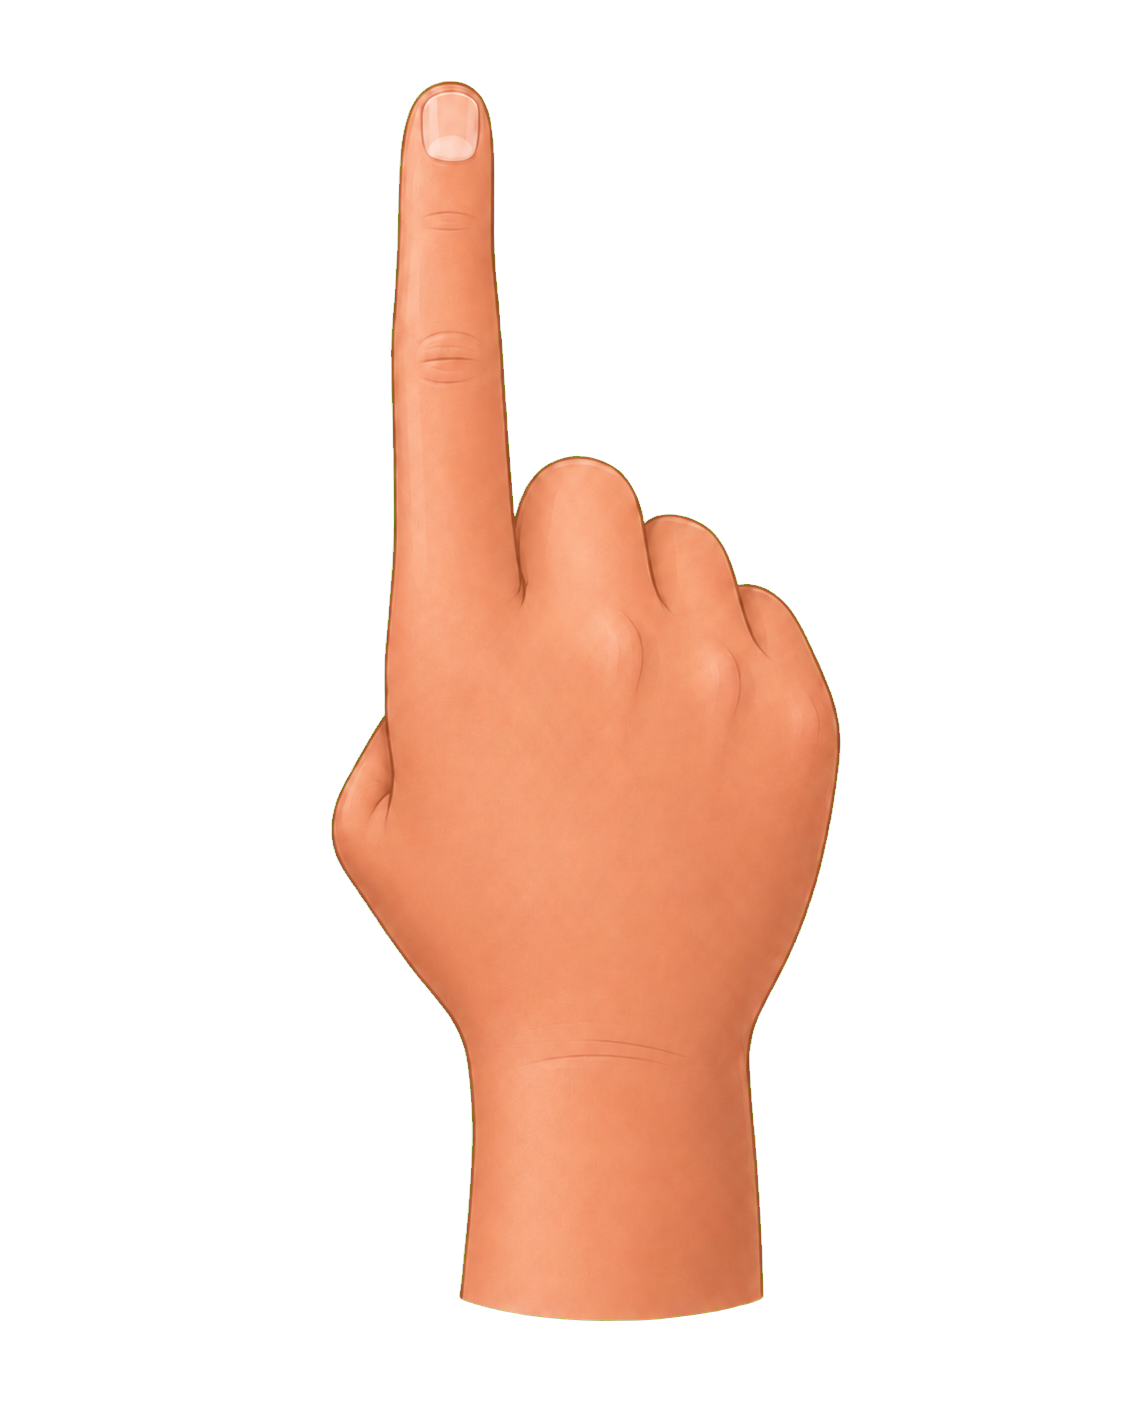
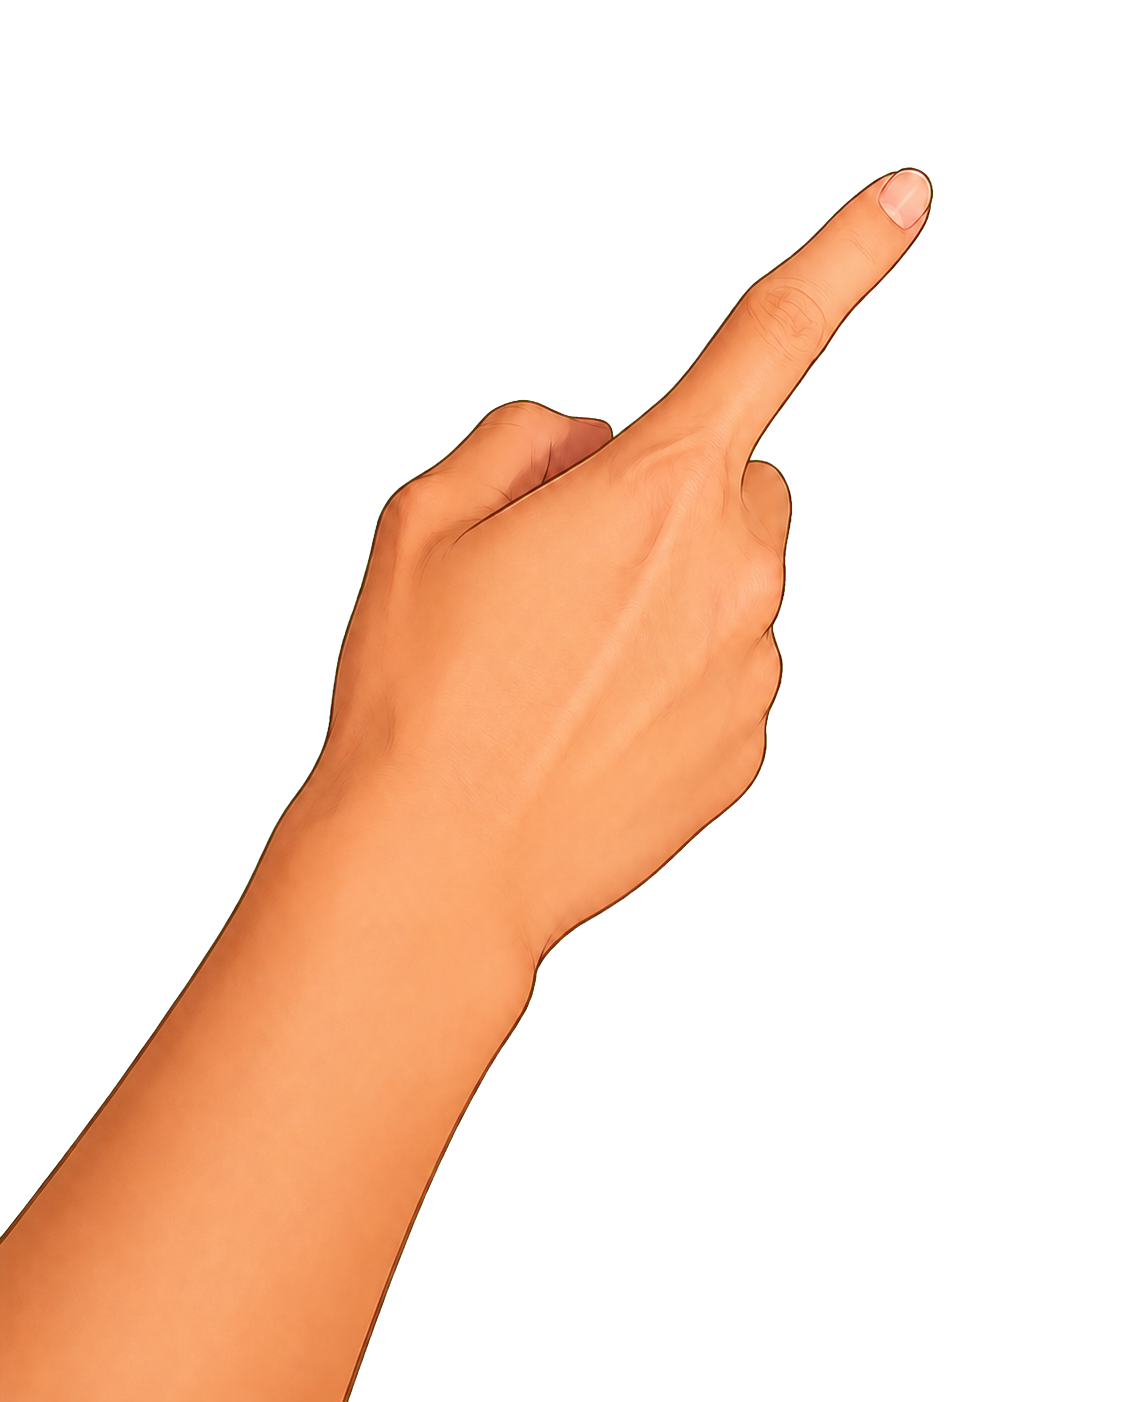
feat: replace interaction finger artwork

Changed region(s): [[0.0, 0.0613, 0.8422, 1.0], [0.5927, 0.5214, 0.6239, 0.5521], [0.4679, 0.5214, 0.4991, 0.5521]]

diff --git a/src/components/MetaInteractionScene.tsx b/src/components/MetaInteractionScene.tsx
@@ -733,7 +733,9 @@ export const MetaInteractionScene: React.FC<MetaInteractionSceneProps> = ({ acti
                     src="/assets/meta-tapping-finger.png"
                     alt=""
                     draggable={false}
-                    className="absolute left-0 top-0 h-[clamp(294px,43vh,420px)] w-auto max-w-none -translate-x-[40%] -translate-y-[6%] select-none drop-shadow-[0_14px_12px_rgba(0,0,0,0.3)]"
+                    className="absolute left-0 top-0 h-[clamp(294px,43vh,420px)] w-auto max-w-none select-none drop-shadow-[0_14px_12px_rgba(0,0,0,0.3)]"
+                    style={{ transformOrigin: '83% 13%', translate: '-83% -13%', rotate: '-90deg' }}
+                    data-finger-orientation="upper-left"
                   />
                 </motion.div>
               )}
@@ -782,10 +784,12 @@ export const MetaInteractionScene: React.FC<MetaInteractionSceneProps> = ({ acti
                 src="/assets/meta-tapping-finger.png"
                 alt=""
                 draggable={false}
-                className="absolute left-0 top-0 h-[clamp(294px,43vh,420px)] w-auto max-w-none origin-[40%_6%] -translate-x-[40%] -translate-y-[6%] select-none drop-shadow-[0_14px_12px_rgba(0,0,0,0.3)]"
+                className="absolute left-0 top-0 h-[clamp(294px,43vh,420px)] w-auto max-w-none select-none drop-shadow-[0_14px_12px_rgba(0,0,0,0.3)]"
+                style={{ transformOrigin: '83% 13%', translate: '-83% -13%', rotate: '-90deg' }}
                 initial={false}
                 animate={{ y: pressed ? 5 : 0, scale: pressed ? 0.98 : 1 }}
                 transition={reducedMotion ? { duration: 0 } : HAND_PRESS_SPRING}
+                data-finger-orientation="upper-left"
                 aria-hidden="true"
                 id="meta-tapping-finger-asset"
               />

diff --git a/tests/metaInteraction.test.ts b/tests/metaInteraction.test.ts
@@ -98,9 +98,11 @@ test('meta camera uses layered anatomical hands instead of rounded placeholder b
   assert.match(sceneSource, /className="[^"]*z-\[8\][^"]*"[\s\S]{0,180}id="meta-tapping-hand-back"/);
   assert.match(sceneSource, /className="[^"]*z-\[60\][^"]*"[\s\S]{0,180}id="meta-pointer-hand"/);
   assert.equal((sceneSource.match(/src="\/assets\/meta-tapping-finger\.png"/g) ?? []).length, 2);
+  assert.equal((sceneSource.match(/data-finger-orientation="upper-left"/g) ?? []).length, 2);
+  assert.equal((sceneSource.match(/rotate: '-90deg'/g) ?? []).length, 2);
   assert.equal((sceneSource.match(/h-\[clamp\(294px,43vh,420px\)\]/g) ?? []).length, 2);
   assert.doesNotMatch(sceneSource, /h-\[clamp\(210px,31vh,300px\)\]/);
-  assert.match(sceneSource, /origin-\[40%_6%\][\s\S]{0,500}id="meta-tapping-finger-asset"/);
+  assert.match(sceneSource, /transformOrigin: '83% 13%'[\s\S]{0,600}id="meta-tapping-finger-asset"/);
   assert.match(sceneSource, /animate=\{\{ y: pressed \? 5 : 0, scale: pressed \? 0\.98 : 1 \}\}/);
   assert.match(sceneSource, /onWheelCapture=\{handleWheelCapture\}/);
   assert.match(sceneSource, /id="meta-scroll-finger"/);